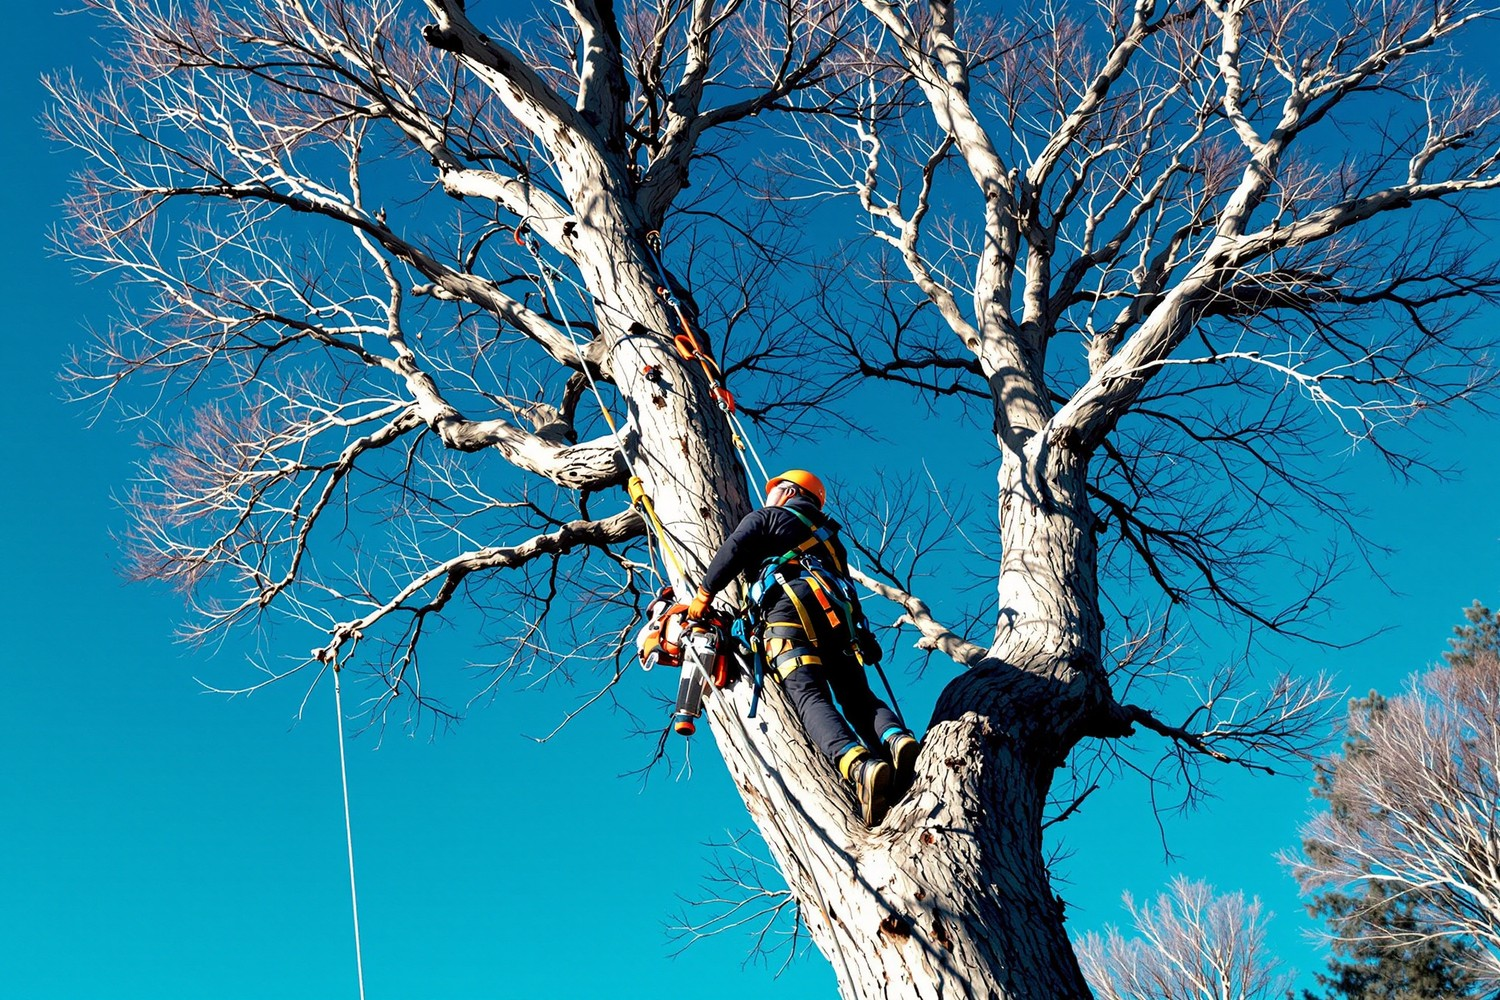
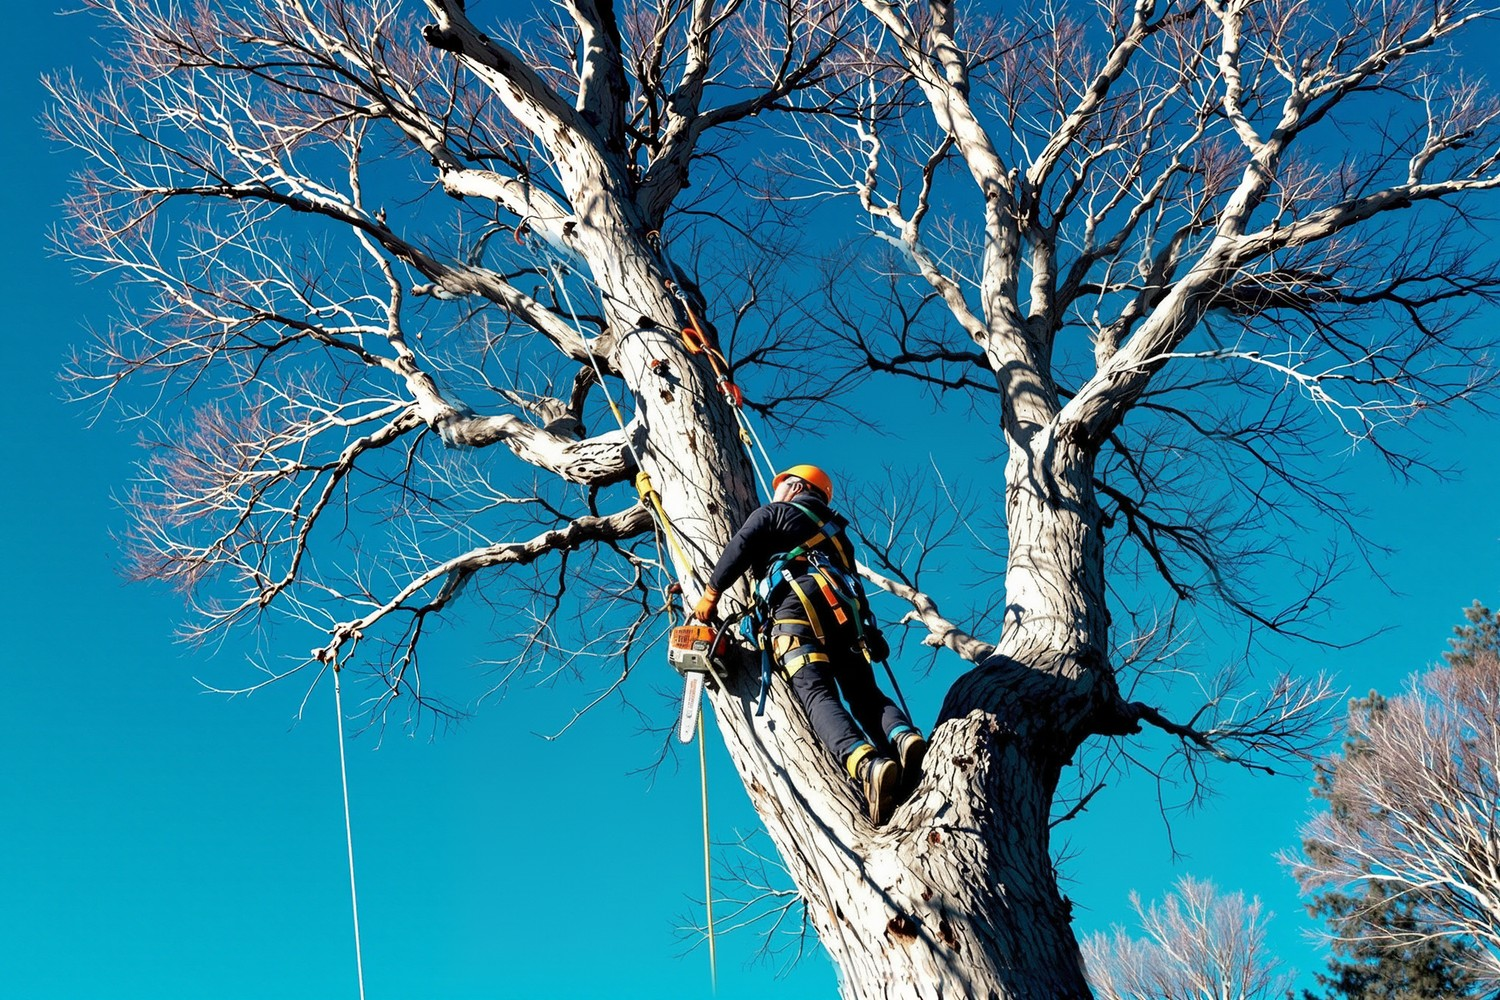
jameson: tweak pass 1 - chainsaw hero fix, people-only work band, punchy H1, Jameson and the crew

Changed region(s): [[0.276, 0.217, 0.828, 0.992]]

diff --git a/jameson-tree-pruners/index.html b/jameson-tree-pruners/index.html
@@ -78,7 +78,7 @@
     </picture>
 
     <div class="glass hero__panel">
-      <div class="hero__words"><h1>That tree came down in the storm.</h1></div>
+      <div class="hero__words"><h1>Call on a Sunday. Down by Monday.</h1></div>
       <!-- the cut-out sits NEXT TO THE HEADLINE at every width (Grady, 2026-08-22) —
            phone: beside the h1 in the band; desktop: the panel's full height.
            A CLIENT WITH NO SOURCED OWNER PHOTO SHIPS HERO_CUT AS "" — there is no
@@ -112,27 +112,27 @@
 <section id="work" class="band g-paper">
   <div class="wrap">
     <p class="kick">Perry, Cumberland &amp; Dauphin counties</p>
-    <h2>JR and the crew</h2>
+    <h2>Jameson and the crew</h2>
     <div class="grid">
       <div class="pj">
-        <span class="pj__ph"><img src="img/crew-at-work.jpg?v=1" width="1500" height="1000"
-             alt="A big maple against a deep blue sky with a Jameson Tree Pruners crewman in hi-viz beside a stump grinder"></span>
-        <span class="pj__bar"><b>The big maple</b><i>Crew on the ground &middot; grinder on site</i></span>
+        <span class="pj__ph"><img src="img/crew-at-work.jpg?v=2" width="1500" height="1000"
+             alt="A crewman in hi-viz working at the base of a big maple with a stump grinder"></span>
+        <span class="pj__bar"><b>The big maple</b><i>Crew on the ground &middot; grinder running</i></span>
       </div>
       <div class="pj">
-        <span class="pj__ph"><img src="img/job-crown-drag.jpg?v=1" width="1500" height="1000"
-             alt="A track loader dragging a pine crown off a driveway"></span>
-        <span class="pj__bar"><b>Clearing the driveway</b><i>Track loader &middot; crown dragged clear</i></span>
+        <span class="pj__ph"><img src="img/job-climber-rigging.jpg?v=2" width="1500" height="1000"
+             alt="A climber roped high into a bare hardwood over a fenced backyard, rigging block overhead"></span>
+        <span class="pj__bar"><b>Roped in, forty feet up</b><i>Rigging line set &middot; one limb at a time</i></span>
       </div>
       <div class="pj">
-        <span class="pj__ph"><img src="img/job-big-trunk.jpg?v=1" width="1500" height="1000"
-             alt="A very large trunk brought down across a lawn and walkway at a large house"></span>
-        <span class="pj__bar"><b>The big trunk</b><i>Down exactly where it should land</i></span>
+        <span class="pj__ph"><img src="img/job-pine-top.jpg?v=2" width="1500" height="1000"
+             alt="A climber working near the top of a tall pine"></span>
+        <span class="pj__bar"><b>Topping the tall pine</b><i>Up where the work is</i></span>
       </div>
       <div class="pj">
-        <span class="pj__ph"><img src="img/job-farmhouse-prune.jpg?v=1" width="1500" height="1000"
-             alt="A finished pruned tree standing at a white farmhouse with a ridge behind"></span>
-        <span class="pj__bar"><b>The farmhouse prune</b><i>Shaped &middot; healthy &middot; standing</i></span>
+        <span class="pj__ph"><img src="img/job-brush-site.jpg?v=2" width="1500" height="1000"
+             alt="A climber up in the tree over the brush pile with the customer's house behind"></span>
+        <span class="pj__bar"><b>The backyard takedown</b><i>Climber up &middot; house kept clear</i></span>
       </div>
       </div>
     <p class="owner__line">Jameson Tree Pruning and Removal &middot; New Bloomfield, PA &middot;
